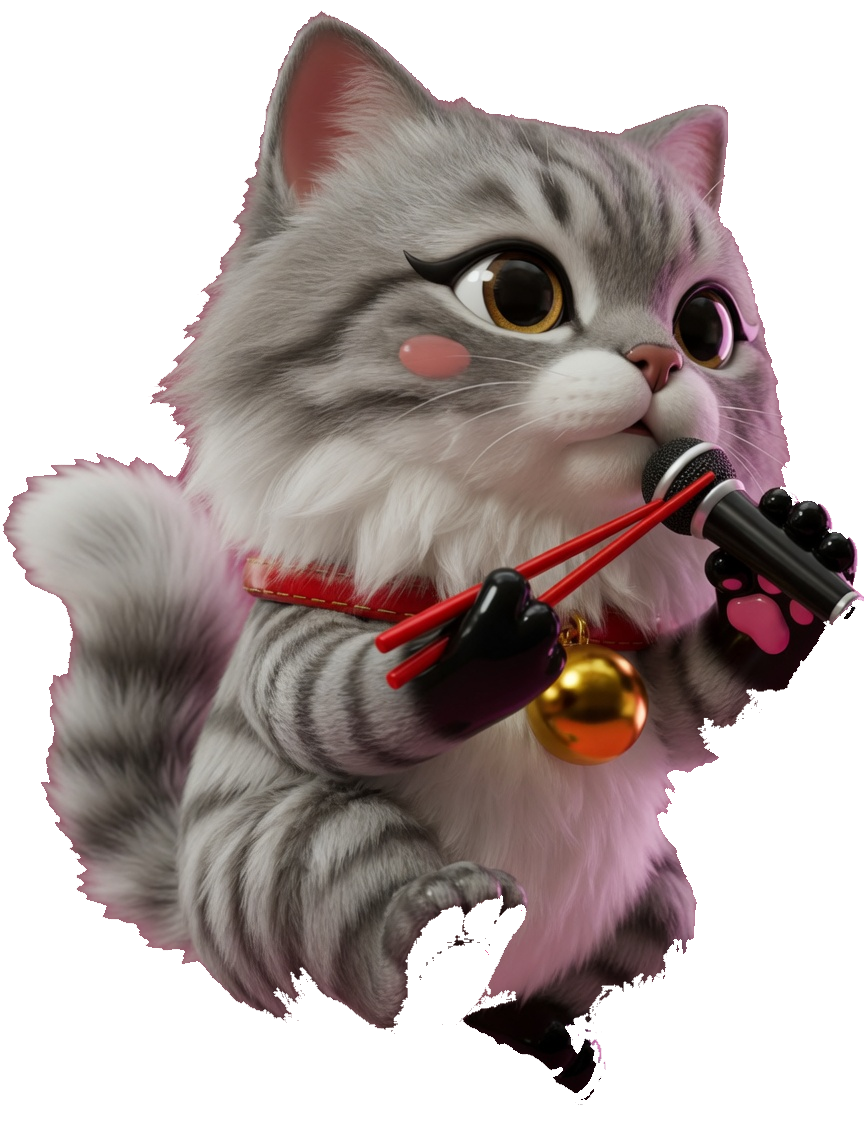
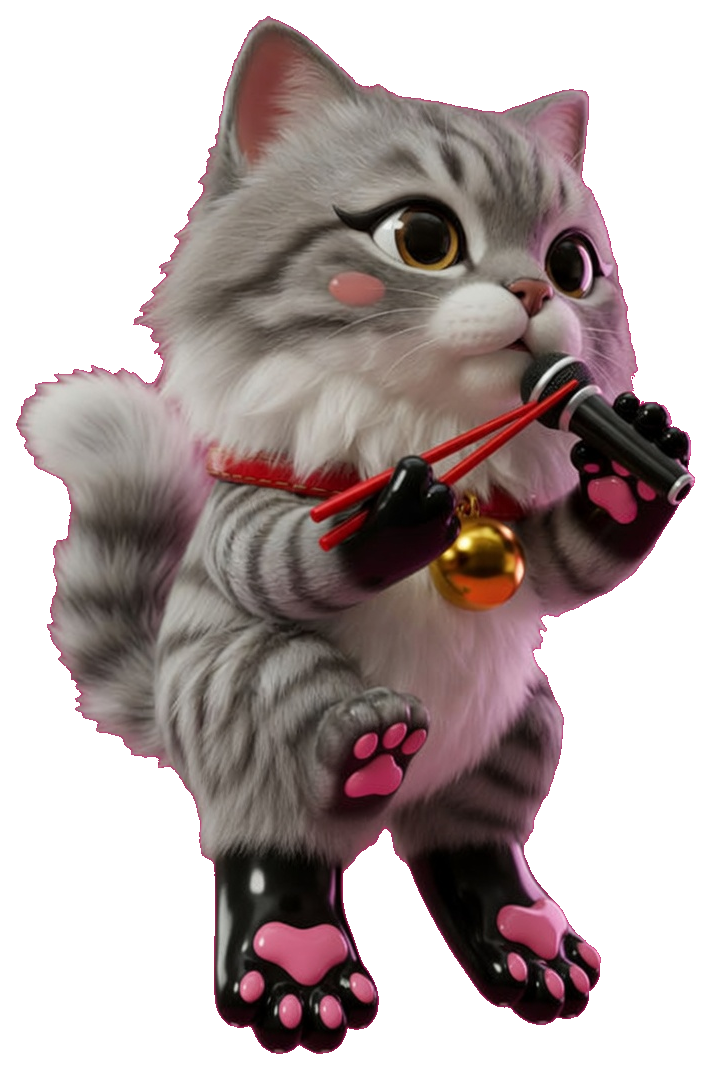
Complete overlay cat hind paws and refresh README hero
The in-app logo and desktop icon were cropped at the canvas edge.
Replace them with a transparent PNG of the whole cat, then rebuild
the README hero from that same asset.

diff --git a/tests/test_mascot_identity.py b/tests/test_mascot_identity.py
@@ -3,7 +3,45 @@ from pathlib import Path
 
 from PIL import Image
 
-from yo.paths import orb_path
+from yo.paths import orb_path, project_root
+
+PAD = 8
+PAW_DARK = 2_000
+PAW_PINK = 200
+PAW_SPAN = 200
+
+
+def _open_logo(path: Path) -> Image.Image:
+    im = Image.open(path)
+    return im.convert("RGBA") if im.mode != "RGBA" else im
+
+
+def _opaque_bbox(im: Image.Image):
+    bbox = im.getbbox()
+    if bbox is None:
+        raise AssertionError("logo has no opaque pixels")
+    return bbox
+
+
+def _hind_paw_band(im: Image.Image, bbox):
+    y1 = bbox[3]
+    y0 = max(bbox[1], y1 - 48)
+    dark = pink = 0
+    min_x = im.size[0]
+    max_x = 0
+    for y in range(y0, y1):
+        for x in range(bbox[0], bbox[2]):
+            r, g, b, a = im.getpixel((x, y))
+            if a < 128:
+                continue
+            if r < 55 and g < 55 and b < 55:
+                dark += 1
+                min_x = min(min_x, x)
+                max_x = max(max_x, x)
+            elif r > 160 and 70 <= g < 190 and b > 90:
+                pink += 1
+    span = 0 if dark == 0 else max_x - min_x
+    return dark, pink, span
 
 
 class MascotIdentityTests(unittest.TestCase):
@@ -32,3 +70,44 @@ class MascotIdentityTests(unittest.TestCase):
         self.assertLess(abs(mean_g - mean_b), 25)
         self.assertGreater(dark, 1_000)
         self.assertGreater(Path(path).stat().st_size, 10_000)
+
+    def test_logo_cat_fits_inside_canvas(self):
+        path = orb_path()
+        im = _open_logo(path)
+        w, h = im.size
+        left, top, right, bottom = _opaque_bbox(im)
+        self.assertGreaterEqual(left, PAD)
+        self.assertGreaterEqual(top, PAD)
+        self.assertLessEqual(right, w - PAD)
+        self.assertLessEqual(bottom, h - PAD)
+
+    def test_logo_hind_paws_are_complete(self):
+        path = orb_path()
+        im = _open_logo(path)
+        dark, pink, span = _hind_paw_band(im, _opaque_bbox(im))
+        self.assertGreaterEqual(dark, PAW_DARK)
+        self.assertGreaterEqual(pink, PAW_PINK)
+        self.assertGreaterEqual(span, PAW_SPAN)
+
+    def test_logo_corners_are_transparent(self):
+        path = orb_path()
+        im = _open_logo(path)
+        w, h = im.size
+        for x, y in ((0, 0), (w - 1, 0), (0, h - 1), (w - 1, h - 1)):
+            self.assertEqual(im.getpixel((x, y))[3], 0)
+
+    def test_desktop_icon_has_the_same_complete_cat(self):
+        logo = project_root() / "assets" / "logo.png"
+        mascot = project_root() / "assets" / "mascot.png"
+        self.assertTrue(mascot.exists())
+        im = _open_logo(mascot)
+        w, h = im.size
+        bbox = _opaque_bbox(im)
+        self.assertGreaterEqual(bbox[0], PAD)
+        self.assertLessEqual(bbox[2], w - PAD)
+        self.assertLessEqual(bbox[3], h - PAD)
+        dark, pink, span = _hind_paw_band(im, bbox)
+        self.assertGreaterEqual(dark, PAW_DARK)
+        self.assertGreaterEqual(pink, PAW_PINK)
+        self.assertGreaterEqual(span, PAW_SPAN)
+        self.assertEqual(logo.read_bytes(), mascot.read_bytes())

diff --git a/CHANGELOG.md b/CHANGELOG.md
@@ -1,5 +1,9 @@
 # Changelog
 
+## Unreleased
+
+- Overlay and desktop icon: the cat mascot now includes complete hind paws instead of a cropped canvas
+
 ## 1.0.0 — 2026-08-22
 
 First public release of **Yo-Voice** (Ёхо).
